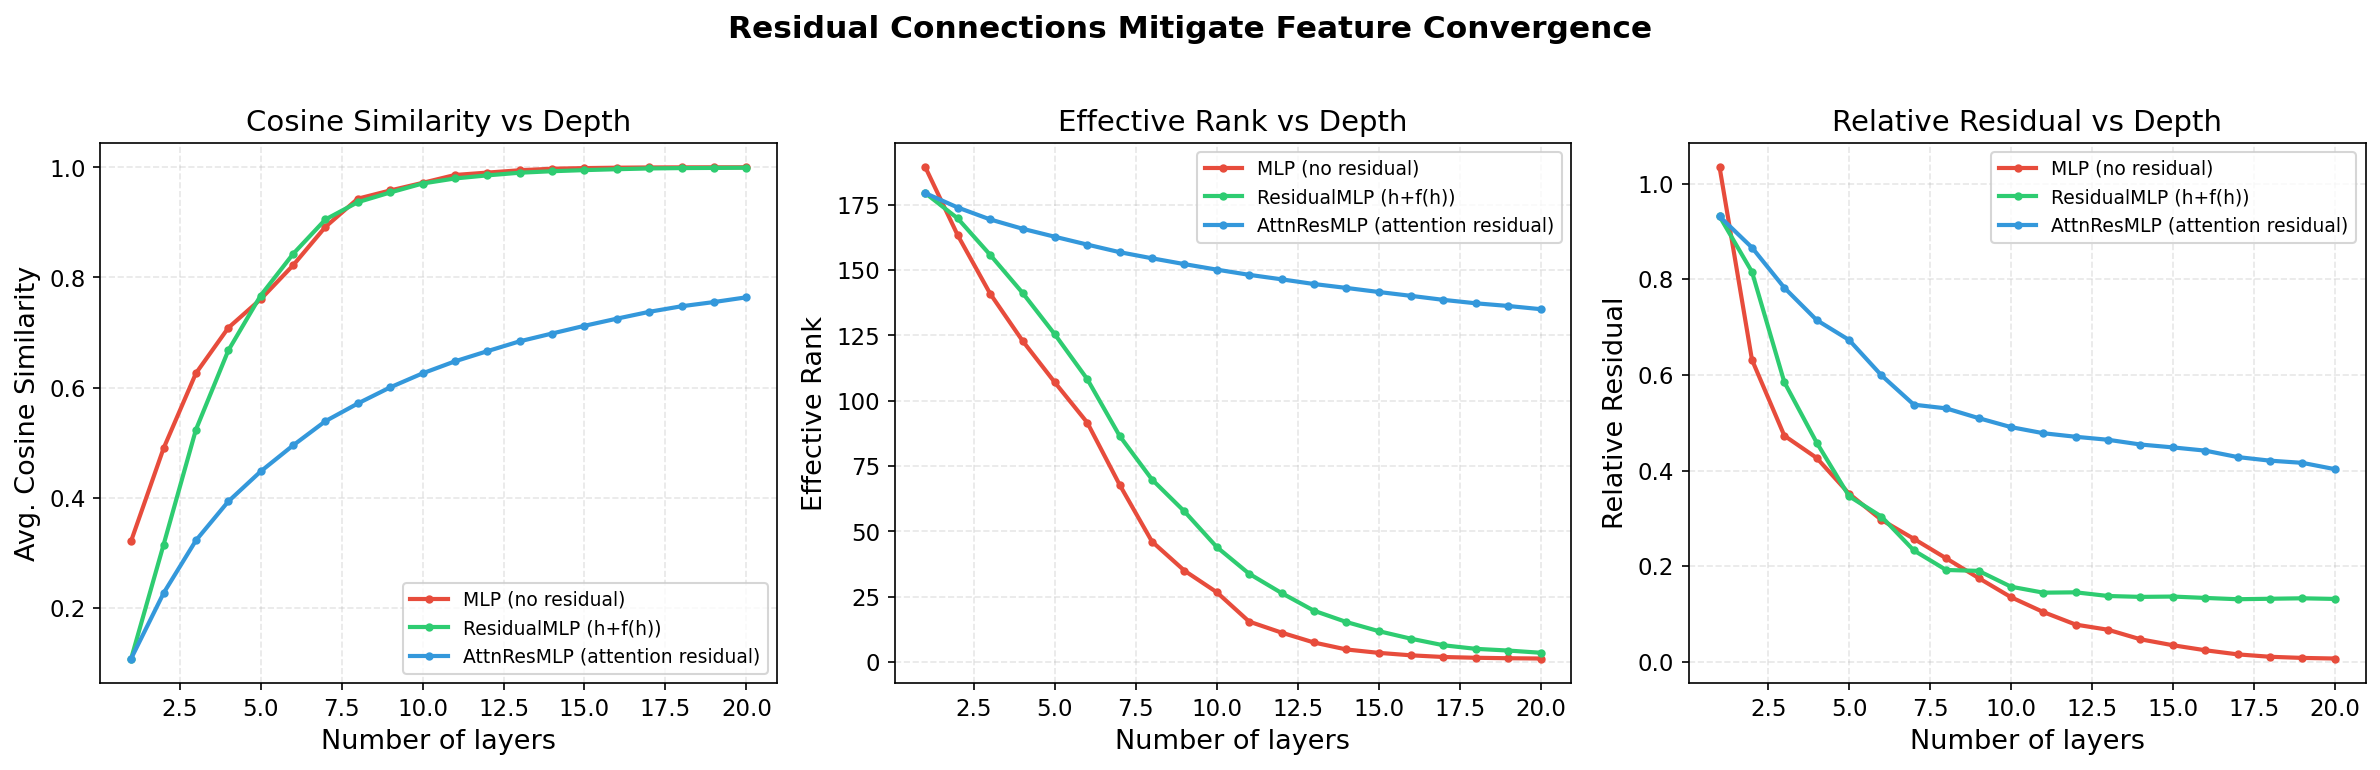
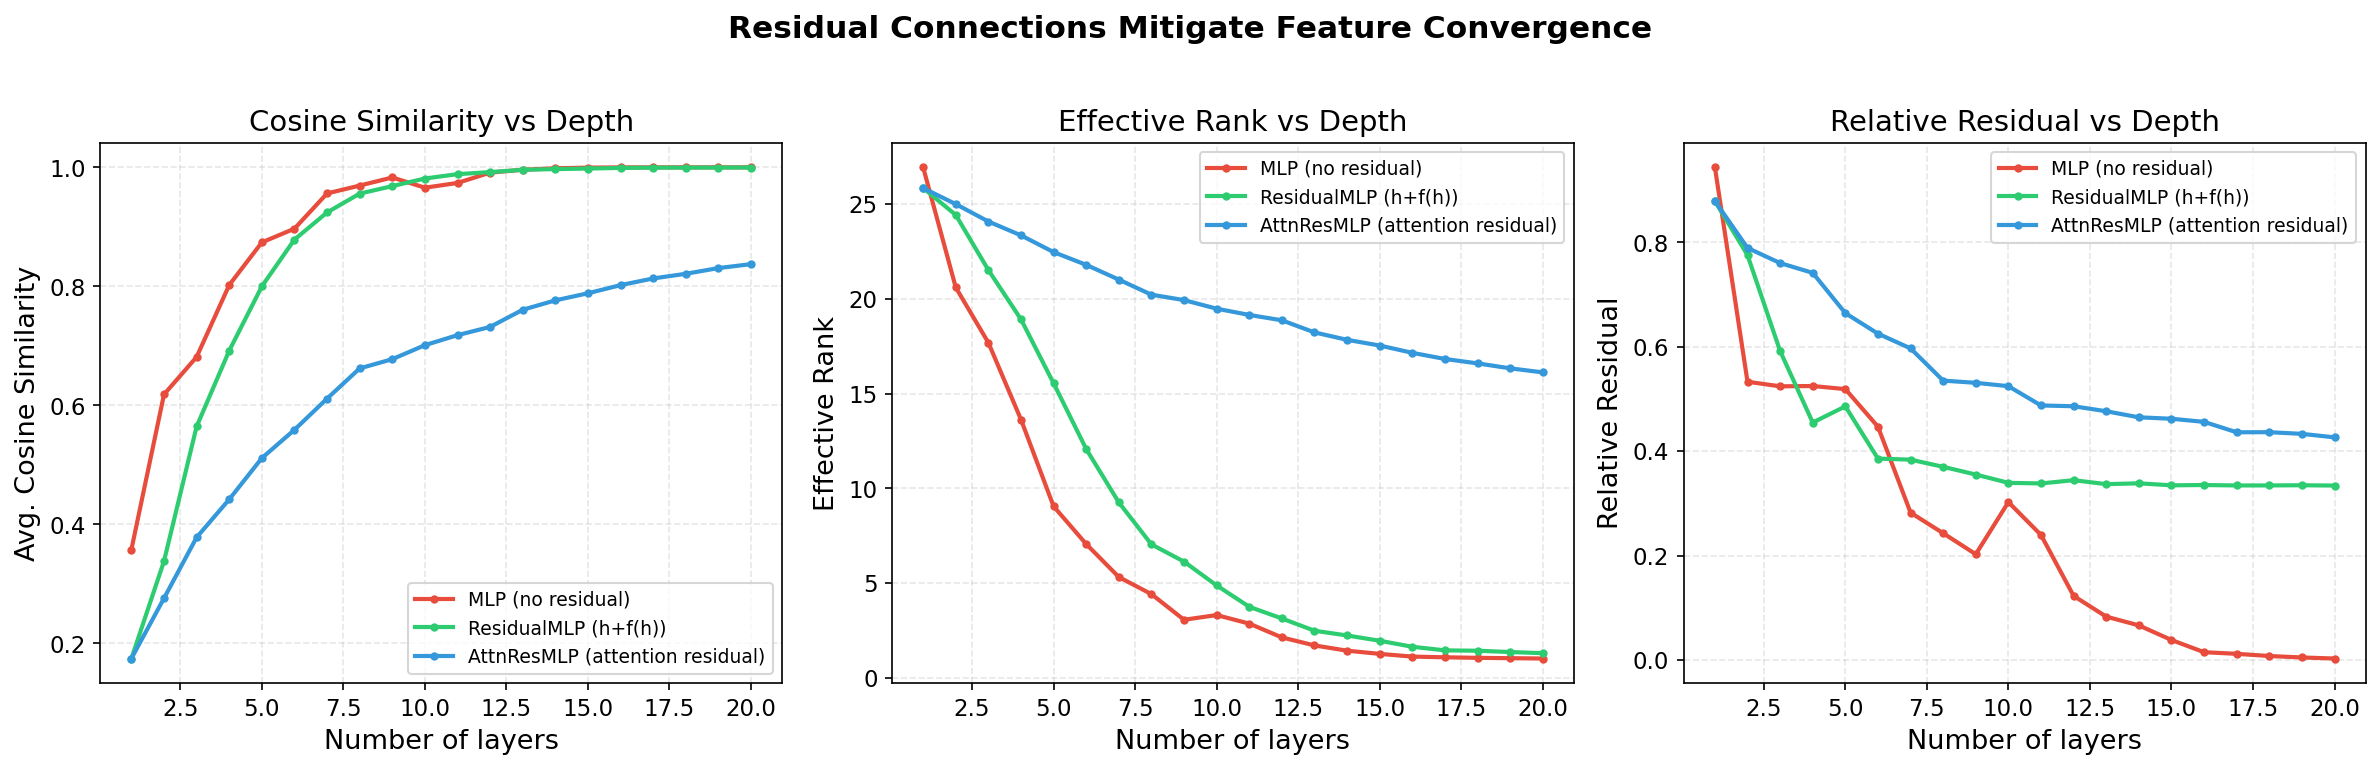
exp2: reduce hidden dim to 32 for clearer residual effect

diff --git a/run_experiments.py b/run_experiments.py
@@ -78,7 +78,7 @@ def run_exp2(out_dir: str = "figures"):
 
     t0 = time.time()
     results = exp2_residual_comparison(
-        d_input=256, d_hidden=256, max_layers=20, n_samples=300, seed=42,
+        d_input=32, d_hidden=32, max_layers=20, n_samples=300, seed=42,
     )
     plot_residual_comparison(results, out_dir)
 